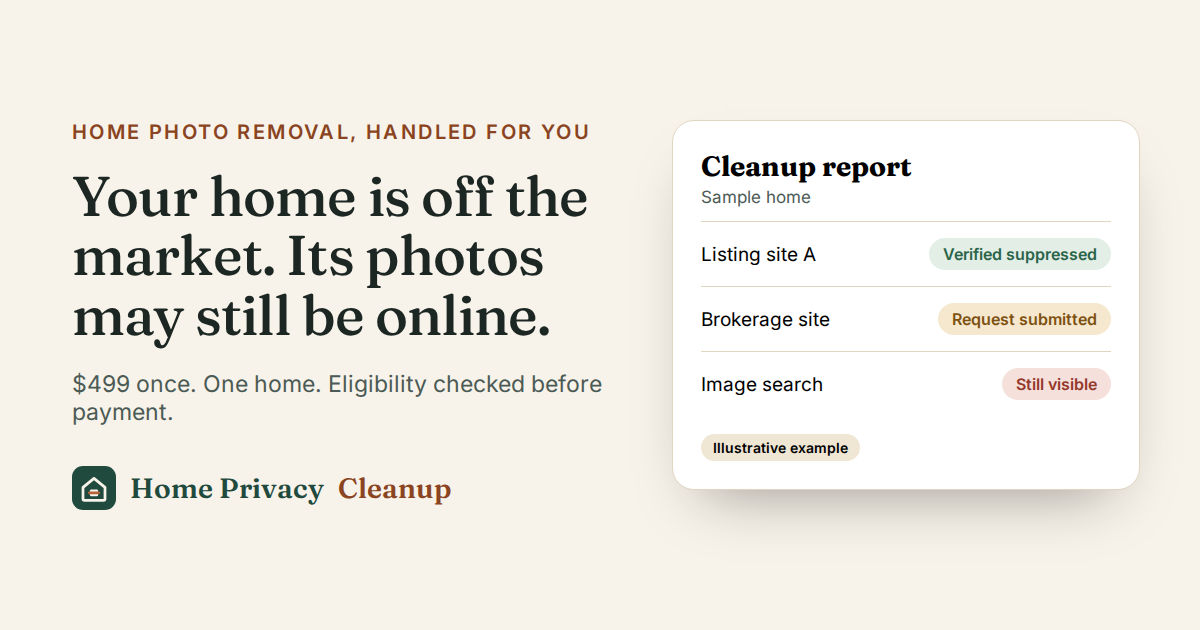
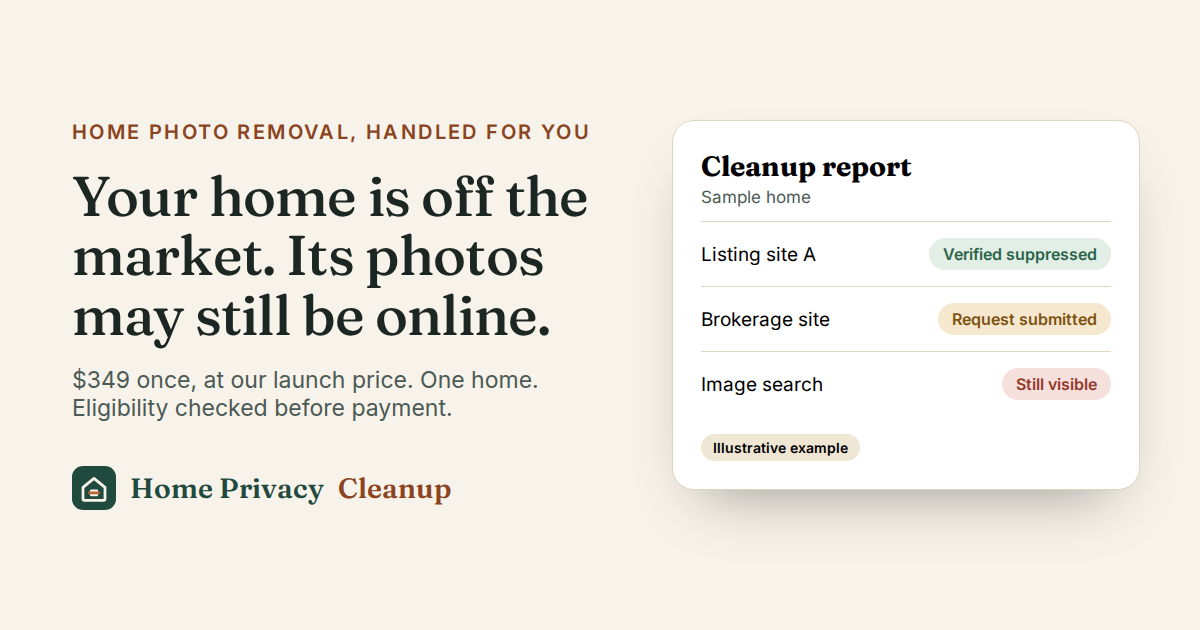
Set launch price to $349
Price moves from $499 to $349 and is labeled a launch price on the
pricing card, under the main buttons, and in the share image. The label
lives in offer.priceNote so it can be removed in one place later. Also
moves the last hardcoded price in the eligibility form and scope page
metadata onto offer.priceLabel.

Claude-Session: https://claude.ai/code/session_01FnJ6aXJ2U1UxJwPAtjtwUC

Changed region(s): [[0.0617, 0.573, 0.5242, 0.6937]]

diff --git a/tests/payments.test.ts b/tests/payments.test.ts
@@ -44,7 +44,7 @@ describe("preview simulated checkout", () => {
     expect(await count("SELECT COUNT(*) n FROM email_outbox WHERE template='payment_confirmed'")).toBe(1);
 
     const order = (await customerByToken(token))!.order!;
-    expect(order.amount_cents).toBe(49900);
+    expect(order.amount_cents).toBe(34900);
     expect(order.status).toBe("awaiting_intake");
     expect(order.service_ends_at).toBeNull(); // clock starts at completed intake, not payment
     // A paid customer going back to checkout is sent to their order page.
@@ -105,7 +105,7 @@ describe("Stripe checkout and webhooks", () => {
   }
 
   function sessionEvent(id: string, type: string, session: Record<string, unknown>) {
-    return { id, object: "event", type, data: { object: { object: "checkout.session", amount_total: 49900, currency: "usd", payment_status: "paid", payment_intent: "pi_123", ...session } } };
+    return { id, object: "event", type, data: { object: { object: "checkout.session", amount_total: 34900, currency: "usd", payment_status: "paid", payment_intent: "pi_123", ...session } } };
   }
 
   it("prices on the server, reuses an open session, and treats the redirect as unconfirmed", async () => {
@@ -117,7 +117,7 @@ describe("Stripe checkout and webhooks", () => {
     expect(b.redirectTo).toBe(a.redirectTo);
     expect(create).toHaveBeenCalledTimes(1);
     const params = create.mock.calls[0][0] as Stripe.Checkout.SessionCreateParams;
-    expect(params.line_items?.[0].price_data?.unit_amount).toBe(49900);
+    expect(params.line_items?.[0].price_data?.unit_amount).toBe(34900);
     expect(params.success_url).toContain(`/c/${token}?returned=1`);
     expect(await count("SELECT COUNT(*) n FROM orders")).toBe(0);
   });

diff --git a/src/components/EligibilityForm.tsx b/src/components/EligibilityForm.tsx
@@ -5,6 +5,7 @@ import { useEffect, useRef, useState } from "react";
 import { Checkbox, ErrorSummary, Honeypot, postJson, RadioGroup, TextField, type Errors } from "./form-parts";
 import { sendEvent } from "./CtaLink";
 import { US_STATES } from "@/lib/states";
+import { offer } from "@/config/offer";
 
 type Mode = "preview" | "interest" | "sales";
 
@@ -150,7 +151,7 @@ export function EligibilityForm({ formToken, mode, privacyHref = "/privacy" }: {
                 <li>We email you what we find. Paid ordering isn&apos;t open yet, and we&apos;ll let you know when it is.</li>
               ) : (
                 <>
-                  <li>If your home qualifies, we email you a secure link to pay $499. If it doesn&apos;t, we tell you why.</li>
+                  <li>If your home qualifies, we email you a secure link to pay {offer.priceLabel}. If it doesn&apos;t, we tell you why.</li>
                   <li>After payment, a short onboarding form collects your written authorization, and the work begins.</li>
                 </>
               )}

diff --git a/src/app/page.tsx b/src/app/page.tsx
@@ -229,7 +229,12 @@ export default function Home() {
                       <span className="text-muted">once</span>
                     </p>
                   </div>
-                  <p className="rounded-full bg-sage px-3 py-1 text-[0.875rem] font-semibold text-evergreen">No subscription</p>
+                  <div className="flex flex-wrap gap-2">
+                    {offer.priceNote && (
+                      <p className="rounded-full bg-evergreen px-3 py-1 text-[0.875rem] font-semibold text-paper">{offer.priceNote}</p>
+                    )}
+                    <p className="rounded-full bg-sage px-3 py-1 text-[0.875rem] font-semibold text-evergreen">No subscription</p>
+                  </div>
                 </div>
                 <p className="mt-4 text-muted">For one home that isn&apos;t listed for sale or rent. We confirm eligibility before you pay.</p>
 

diff --git a/src/config/site.ts b/src/config/site.ts
@@ -171,11 +171,11 @@ export function modeCopy(mode: LaunchMode = effectiveMode()) {
   if (mode === "interest") {
     return {
       primaryCta: "Check if my home qualifies",
-      ctaSupport: `${offer.priceLabel} once, when ordering opens. Paid ordering isn't open yet, so nothing is charged now.`,
+      ctaSupport: `${offer.priceLabel} once${offer.priceNote ? ` (${offer.priceNote.toLowerCase()})` : ""}, when ordering opens. Paid ordering isn't open yet, so nothing is charged now.`,
     };
   }
   return {
     primaryCta: "Start my home cleanup",
-    ctaSupport: `${offer.priceLabel} once. One home. Eligibility checked before payment.`,
+    ctaSupport: `${offer.priceLabel} once${offer.priceNote ? ` (${offer.priceNote.toLowerCase()})` : ""}. One home. Eligibility checked before payment.`,
   };
 }

diff --git a/src/config/offer.ts b/src/config/offer.ts
@@ -14,9 +14,11 @@
 export const offer = {
   brandName: "Home Privacy Cleanup",
   productName: "Home Privacy Cleanup, one residence",
-  priceCents: 49_900,
+  priceCents: 34_900,
   currency: "usd",
-  priceLabel: "$499",
+  priceLabel: "$349",
+  /** Shown beside the price. Set to null when the launch price ends. */
+  priceNote: "Launch price" as string | null,
 
   /** Initial marketing focus. Do not describe wider coverage as established. */
   serviceArea: "Northeast Ohio",

diff --git a/src/app/scope/page.tsx b/src/app/scope/page.tsx
@@ -4,7 +4,7 @@ import { coveredSitesSentence, offer } from "@/config/offer";
 
 export const metadata: Metadata = {
   title: "What's covered",
-  description: "Exactly what the $499 Home Privacy Cleanup service includes, what it doesn't, and how results are verified.",
+  description: `Exactly what the ${offer.priceLabel} Home Privacy Cleanup service includes, what it doesn't, and how results are verified.`,
   alternates: { canonical: "/scope" },
 };
 

diff --git a/docs/HOMEPAGE_COPY.md b/docs/HOMEPAGE_COPY.md
@@ -11,7 +11,7 @@ This is the sales-mode copy as implemented in `src/app/page.tsx` and `src/conten
 **Supporting copy:** Old listing photos can leave the inside of your home on public display. We find exposed photos, request removal, manage follow-ups, and check the results, so you don't have to manage the process yourself.
 
 **Primary button:** Start my home cleanup
-**Under the button:** $499 once. One home. Eligibility checked before payment.
+**Under the button:** $349 once (launch price). One home. Eligibility checked before payment.
 **Secondary button:** See what's included
 
 Beside the hero: an illustrated listing page ("Sample home, sold last year / Off market, photos still public") and a cleanup report card, both labeled "Illustrative example".
@@ -30,7 +30,7 @@ Not every home is affected. The way to know is to look, carefully, in all the pl
 
 **You can do some of this yourself. We take on the whole process.**
 
-Some websites let a verified owner hide photos or request removal, and you're welcome to use them. The work is everything around those tools: finding every copy, learning each site's route, reaching the original listing source, following up when nothing changes, and checking whether the photos are really gone. Your $499 pays for us to manage that covered process from start to finish.
+Some websites let a verified owner hide photos or request removal, and you're welcome to use them. The work is everything around those tools: finding every copy, learning each site's route, reaching the original listing source, following up when nothing changes, and checking whether the photos are really gone. Your $349 pays for us to manage that covered process from start to finish.
 
 | The job | On your own | With Home Privacy Cleanup |
 | --- | --- | --- |
@@ -52,7 +52,7 @@ Some websites let a verified owner hide photos or request removal, and you're we
 
 **One home. One price. Paid once.**
 
-**$499 once.** No subscription. For one home that isn't listed for sale or rent. We confirm eligibility before you pay.
+**$349 once.** Launch price. No subscription. For one home that isn't listed for sale or rent. We confirm eligibility before you pay.
 
 What's included:
 - An audit of Zillow, Redfin, Realtor.com, Trulia, Homes.com, and Google Search and Google Images
@@ -112,6 +112,6 @@ Form: name, email, brokerage (optional), how you'd use it (optional), permission
 
 Tell us about your home. We'll check eligibility before anything is charged, then manage the requests, the follow-up, and the proof.
 
-**Start my home cleanup.** $499 once. One home. Eligibility checked before payment.
+**Start my home cleanup.** $349 once (launch price). One home. Eligibility checked before payment.
 
 Footer: short description, "Starting with homes in Northeast Ohio", contact, What's covered, Refund policy, Privacy, Terms, and a non-affiliation statement for the named websites.

diff --git a/docs/LAUNCH_CHECKLIST.md b/docs/LAUNCH_CHECKLIST.md
@@ -19,12 +19,12 @@ Sales mode stays locked (the site runs in interest mode) until the items marked 
 - [ ] **Legal entity** that sells the service, and whether it is a new entity or an existing one. Goes in `BUSINESS_LEGAL_NAME` and the terms.
 - [ ] **Domain** and **contact email**. A mailing address and phone are optional; publish only real ones.
 - [ ] **Final assurance wording.** The proposed text is in `offer.assurance`. Confirm the two refund triggers (full refund before the first external request; service-fee refund if no identified target is verified removed or suppressed by day 45), that partial success does not qualify, and that Street View alone does not count.
-- [ ] **Final price and scope** ($499, one residence, covered sites, up to 5 additional sites, 45-day window, weekly updates, final report, day-60 recheck).
+- [ ] **Final price and scope** ($349 launch price, one residence, covered sites, up to 5 additional sites, 45-day window, weekly updates, final report, day-60 recheck).
 - [ ] **Legal review** of `/terms`, `/privacy`, and `/refunds`. Two placeholders remain in the terms: liability wording and governing law.
 - [ ] **Order record retention period** (privacy page currently says it will be stated before launch).
 - [ ] **Hosting provider** name for the privacy page (`HOSTING_PROVIDER_NAME`).
 - [ ] **Service area** wording. The site says it is starting with Northeast Ohio and does not claim wider coverage. Decide how to handle out-of-area requests (the decline reason `out_of_area` exists).
-- [ ] **Sales tax.** Confirm whether this service is taxable where you sell it. Checkout currently charges a flat $499 with no tax line. If tax applies, enable Stripe Tax or adjust pricing before launch.
+- [ ] **Sales tax.** Confirm whether this service is taxable where you sell it. Checkout currently charges a flat $349 with no tax line. If tax applies, enable Stripe Tax or adjust pricing before launch.
 - [ ] Whether the business plan's **five free beta homes** run in preview mode (records marked test) or through manual handling outside the site.
 
 ## Operational readiness

diff --git a/README.md b/README.md
@@ -1,6 +1,6 @@
 # Home Privacy Cleanup
 
-Public website and purchase flow for Home Privacy Cleanup: a $499, one-time managed service that finds old listing photos, floor plans, and virtual tours of an off-market home, requests removal or public suppression, follows up for 45 days, and verifies the results.
+Public website and purchase flow for Home Privacy Cleanup: a $349 (launch price), one-time managed service that finds old listing photos, floor plans, and virtual tours of an off-market home, requests removal or public suppression, follows up for 45 days, and verifies the results.
 
 Built with Next.js 16 (App Router, TypeScript), Tailwind CSS 4, SQLite through Node's built-in `node:sqlite`, Stripe Checkout, and Resend for email.
 
